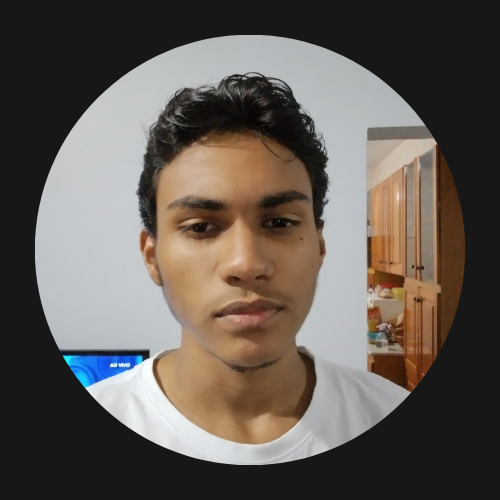
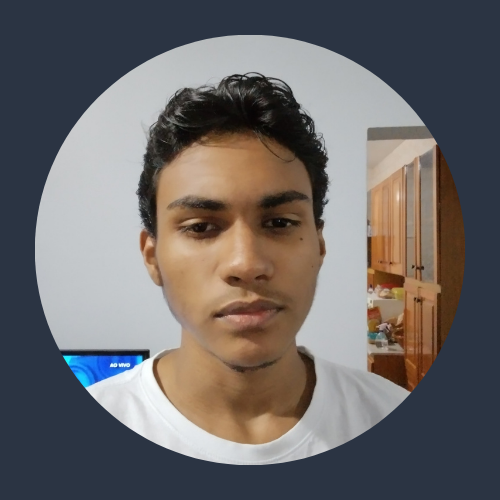
algumas mudanças

diff --git a/src/components/Contact/index.tsx b/src/components/Contact/index.tsx
@@ -9,19 +9,19 @@ export const Contact = () => {
                 </p>
                 <div className='contact--area'>
                     <div className='contact--item'>
-                        <img src="https://img.icons8.com/material-outlined/24/26e07f/whatsapp--v1.png"/>
+                        <img src="https://img.icons8.com/material-outlined/24/5CC4C4/whatsapp--v1.png"/>
                         <p>{`(11) 97535-4237`}</p>
                     </div>
                     <div className='contact--item'>
-                        <img src="https://img.icons8.com/ios-filled/24/26e07f/email-open.png"/>
+                        <img src="https://img.icons8.com/ios-filled/24/5CC4C4/email-open.png"/>
                         <p>malcolmmellolima@gmail.com</p>
                     </div>
                     <div className='contact--item'>
-                        <img src="https://img.icons8.com/material-outlined/24/26e07f/github.png"/>
+                        <img src="https://img.icons8.com/material-outlined/24/5CC4C4/github.png"/>
                         <p>https://github.com/MalcolmMello</p>
                     </div>
                     <div className='contact--item'>
-                        <img src="https://img.icons8.com/ios-glyphs/24/26e07f/linkedin.png"/>
+                        <img src="https://img.icons8.com/ios-glyphs/24/5CC4C4/linkedin.png"/>
                         <p>https://www.linkedin.com/in/malcolm-de-mello-a8208a224/</p>
                     </div>
                 </div>

diff --git a/src/components/About/index.tsx b/src/components/About/index.tsx
@@ -8,16 +8,16 @@ export const About = () => {
                 <div className='pic--area'>
                     <div className='pic--item'>
                         <img className='perfil--img' src={mypic} alt="" />
-                        <h3>Malcolm Lima</h3>
+                        <h2>Malcolm Lima</h2>
                         <div className='social--media'>
-                            <img src="https://img.icons8.com/ios-glyphs/30/ffffff/linkedin.png"/>
-                            <img src="https://img.icons8.com/ios-glyphs/30/ffffff/github.png"/>
-                            <img src="https://img.icons8.com/ios-glyphs/30/ffffff/youtube-play.png"/>
+                            <img src="https://img.icons8.com/ios-glyphs/30/5CC4C4/linkedin.png"/>
+                            <img src="https://img.icons8.com/ios-glyphs/30/5CC4C4/github.png"/>
+                            <img src="https://img.icons8.com/ios-glyphs/30/5CC4C4/youtube-play.png"/>
                         </div>
                     </div>
                 </div>
                 <div className='about--area'>
-                    <h1>Sobre</h1>
+                    <h1><img src="https://img.icons8.com/windows/32/5CC4C4/about-us-male--v1.png"/>Sobre</h1>
                     <div className='about--item'>
                         <h3>Conheça um pouco sobre mim</h3>
                         <p>

diff --git a/src/components/MyData/styles.ts b/src/components/MyData/styles.ts
@@ -9,7 +9,12 @@ export const MyName = styled.section`
         display: flex;
         width: 1024px;
         margin: auto;
-        justify-content: space-between
+        justify-content: space-between;
+        .img--area {
+            img {
+                width: 400px;
+                height: 400px;
+            }
     }
 
     .data--area {
@@ -17,7 +22,10 @@ export const MyName = styled.section`
             color: #FFF;
         }
         p {
-            color: #828282
+            color: #FFF
+        }
+        .frontend--title {
+            color: #5CC4C4;
         }
     }
     
@@ -25,19 +33,14 @@ export const MyName = styled.section`
         margin-top: 30px;
 
         button {
-            cursor: pointer;
             height: 42px;
-            width: 143px;
-            border: none;
-            margin-right: 15px
-        }
-        .green--button {
-            background-color: #00DF5E;
-        }
-        .black--button {
-            color: #FFF;
+            font-size: 17px;
+            padding: 0px 20px;
+            color: #5CC4C4;
+            border: 2px solid #5CC4C4;
             background: none;
-            border: 1px solid #212121
+            cursor: pointer;
+            margin-right: 15px
         }
     }
 `

diff --git a/src/components/About/styles.ts b/src/components/About/styles.ts
@@ -1,6 +1,7 @@
 import styled from "styled-components";
 
 export const AboutItem = styled.section`
+    background-color: #2b3443;    
     .container {
         width: 1024px;
         margin: auto;
@@ -22,12 +23,13 @@ export const AboutItem = styled.section`
                 .perfil--img {
                     height: 200px;
                     width: 200px;
-                    border: 3px solid #00DF5E;
+                    border: 3px solid #5CC4C4;
                     border-radius: 50%
                 }
 
-                h3 {
-                    color: #FFF
+                h2 {
+                    font-weight: 300;
+                    color: #FFF;
                 }    
             }
             
@@ -47,11 +49,18 @@ export const AboutItem = styled.section`
             h1, h3 {
                 color: #FFF;
             }
+            h1 {
+                display: flex;
+
+                img {
+                    margin-right: 5px
+                }
+            }
             h3 {
                 margin-bottom: 50px;
             }
             .about--item {
-                color: #828282
+                color: #fff
             }
         }
     }

diff --git a/src/components/MyData/index.tsx b/src/components/MyData/index.tsx
@@ -6,13 +6,16 @@ export const MyData = () => {
         <C.MyName>
             <div className='container'>
                 <div className='data--area'>
-                    <h1>Olá, eu sou o <br />
+                    <p className='frontend--title'>DESENVOLVEDOR FRONT-END</p>
+                    <h1>
                         Malcolm Lima 
                     </h1>
-                    <p>Desenvolvedor Front-End</p>
+                    <p>Sou desenvolvedor Front-End, esse é meu <br />
+                    portfólio, espero que goste e seja bem-vindo! <br />
+                    Meu currículo:
+                    </p>
                     <div className='button--area'>
-                        <button className='green--button'>Download CV</button>
-                        <button className='black--button'>Entrar em contato</button>
+                        <button className='green--button'>BAIXAR CURRÍCULO</button>
                     </div>
                 </div>
                 <div className='img--area'>

diff --git a/src/components/MyProjects/index.tsx b/src/components/MyProjects/index.tsx
@@ -21,21 +21,6 @@ export const Projects = () => {
                         <h3>Título do projeto</h3>
                         <p>Descrição</p>
                     </div>
-                    <div className='project--item'>
-                        <img src="" alt="" />
-                        <h3>Título do projeto</h3>
-                        <p>Descrição</p>
-                    </div>
-                    <div className='project--item'>
-                        <img src="" alt="" />
-                        <h3>Título do projeto</h3>
-                        <p>Descrição</p>
-                    </div>
-                    <div className='project--item'>
-                        <img src="" alt="" />
-                        <h3>Título do projeto</h3>
-                        <p>Descrição</p>
-                    </div>
                 </div>
             </div>
         </C.ProjectsArea>

diff --git a/src/components/MyServices/styles.ts b/src/components/MyServices/styles.ts
@@ -21,9 +21,9 @@ export const ServicesArea = styled.section`
                     width: 350px;
                     margin: auto;
                     align-items: flex-end;
-                    background-color: #212121;
-                    color: #828282;
-                    border-bottom: 3px solid #00DF5E;
+                    background-color: #2b3443;
+                    color: #FFF;
+                    border-bottom: 3px solid #5CC4C4;
                     padding: 0px 10px;
                     
                     img {

diff --git a/src/components/MyProjects/styles.ts b/src/components/MyProjects/styles.ts
@@ -19,6 +19,9 @@ export const ProjectsArea = styled.section`
                 width: 100%;
                 margin: auto;
                 color: #FFF;
+                background-color: #2b3443;
+                padding: 5px 5px;
+                border-radius: 5px;
                 
                 img {
                     height: 150px;

diff --git a/src/components/Footer/styles.ts b/src/components/Footer/styles.ts
@@ -5,7 +5,9 @@ export const FooterArea = styled.footer`
     height: 100px;
     justify-content: center; 
     align-items: center;
-    background-color: #212121;
+    background-color: #1a222d;
+    border-bottom: 6px solid #5CC4C4;
+
     p {
         color: #FFF
     }

diff --git a/src/index.css b/src/index.css
@@ -8,7 +8,7 @@ body {
     sans-serif;
   -webkit-font-smoothing: antialiased;
   -moz-osx-font-smoothing: grayscale;
-  background-color: #2b3443;
+  background-color: #202733;
 }
 
 code {
